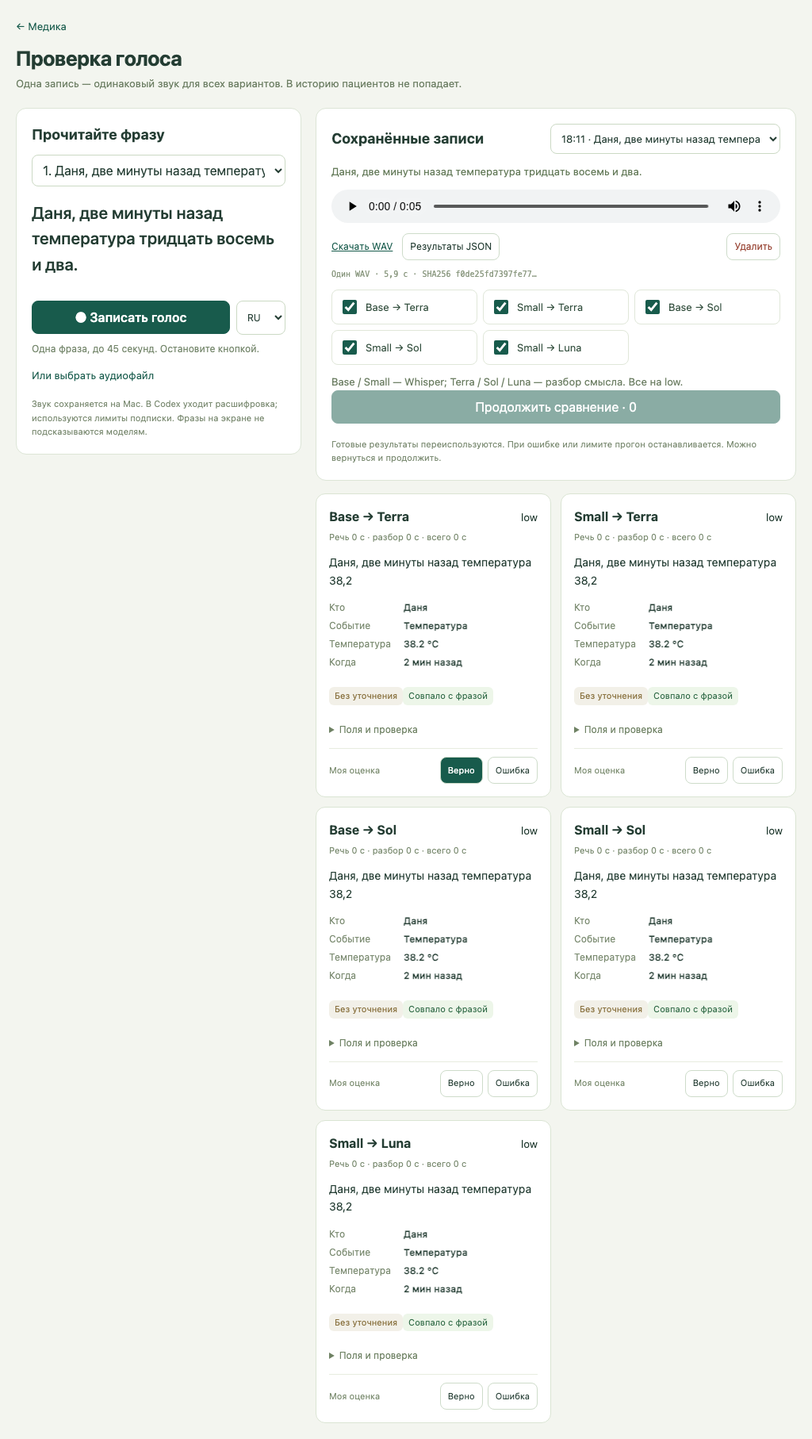
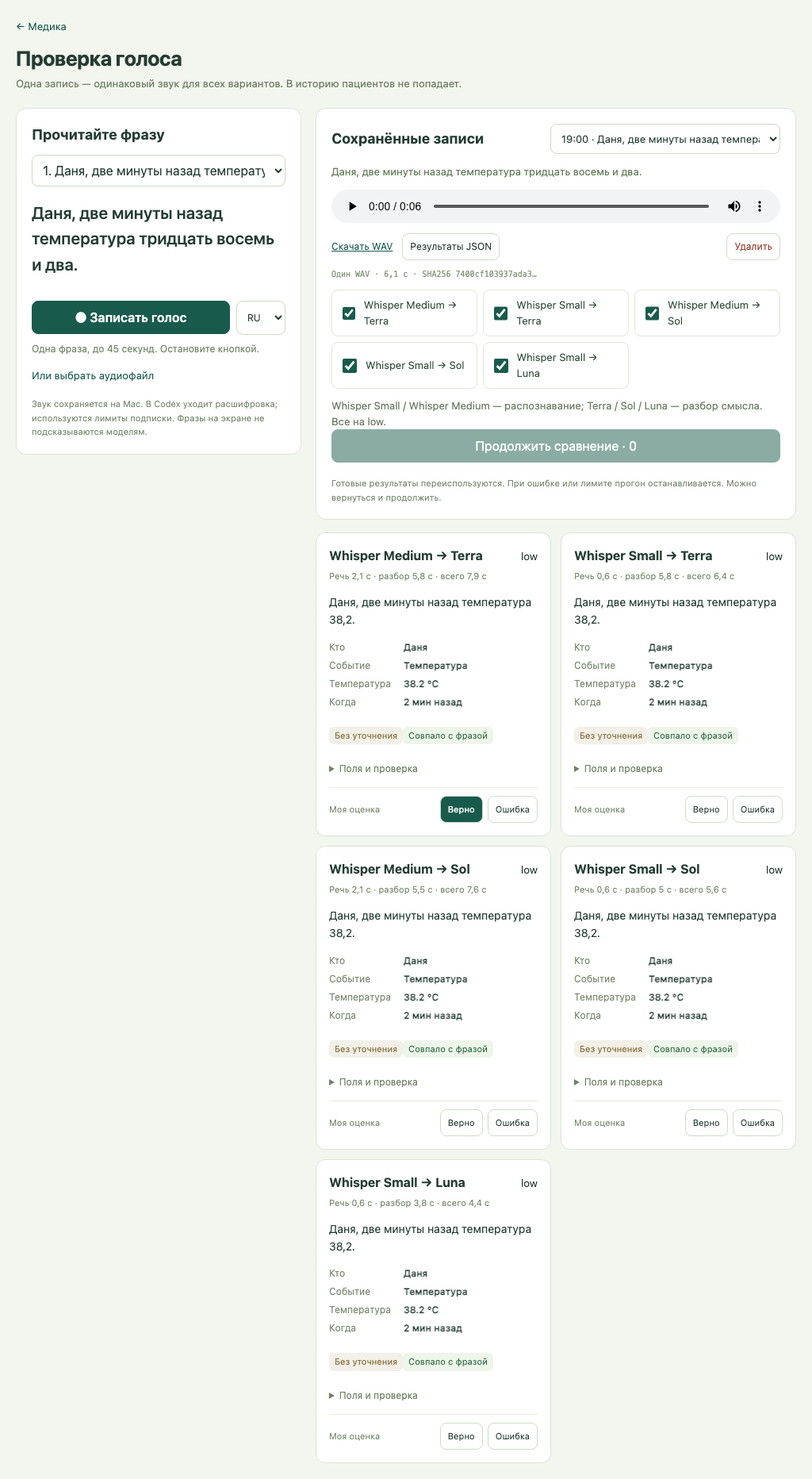
Remove Whisper Base and add verified Whisper Medium

diff --git a/site/public/voice-lab.js b/site/public/voice-lab.js
@@ -1,7 +1,7 @@
 import {captureVoice} from '/voice-capture.js';
 const $=(s,r=document)=>r.querySelector(s),root=$('#lab'),e=x=>String(x??'').replace(/[&<>"']/g,c=>({'&':'&amp;','<':'&lt;','>':'&gt;','"':'&quot;',"'":'&#39;'}[c]));
 let state,token='',recording=null,capturedAt='',phraseId=localStorage.getItem('voice-lab-phrase')||'temperature',recordId=localStorage.getItem('voice-lab-record')||'',busy='',stopRequested=false,language='ru',customPrompt='',timer;
-let selected;try{selected=new Set(JSON.parse(localStorage.getItem('voice-lab-variants'))||['base-terra','small-terra']);}catch{selected=new Set(['base-terra','small-terra']);}
+let selected;try{selected=new Set(JSON.parse(localStorage.getItem('voice-lab-variants'))||['small-terra','medium-terra']);}catch{selected=new Set(['small-terra','medium-terra']);}
 const kinds={temperature:'Температура',medication:'Лекарство',retching:'Позывы к рвоте',vomiting:'Рвота',diarrhea:'Диарея',inhalation:'Ингаляция',other:'Другое'},people={'lab-danya':'Даня','lab-alice':'Алиса','lab-mom':'Мама','lab-dad':'Папа'};
 const secs=ms=>(ms/1000).toLocaleString('ru-RU',{maximumFractionDigits:1})+' с';
 const current=()=>state.recordings.find(r=>r.id===recordId),disabled=()=>busy||recording?'disabled':'';
@@ -11,10 +11,10 @@ async function api(path,body,method=body?'POST':'GET',retried=false){
   const r=await fetch('/api/voice-lab'+path,{method,headers:{'X-Medika-Token':token,...(body?{'Content-Type':'application/json'}:{})},body:body?JSON.stringify(body):undefined});
   if(r.status===403&&!retried){token='';return api(path,body,method,true);}const value=await r.json();if(!r.ok)throw Error(value.error||'Не удалось выполнить запрос');return value;
 }
-async function refresh(){state=await api('');if(!current())recordId=state.recordings[0]?.id||'';render();}
+async function refresh(){state=await api('');selected=new Set([...selected].map(id=>id==='base-terra'?'medium-terra':id==='base-sol'?'medium-sol':id).filter(id=>state.variants.some(v=>v.id===id)));if(!selected.size)selected=new Set(['small-terra','medium-terra']);localStorage.setItem('voice-lab-variants',JSON.stringify([...selected]));if(!current())recordId=state.recordings[0]?.id||'';render();}
 function render(){
   const record=current(),phrase=state.phrases.find(p=>p.id===phraseId),remaining=[...selected].filter(id=>state.variants.some(v=>v.id===id&&v.ready)&&record?.results[id]?.status!=='complete');
-  root.innerHTML=`<section class="panel recorder"><h2>Прочитайте фразу</h2><select id="phrase" aria-label="Фраза для записи" ${disabled()}>${state.phrases.map((p,i)=>`<option value="${p.id}" ${p.id===phraseId?'selected':''}>${i+1}. ${e(p.text.slice(0,55))}</option>`).join('')}<option value="custom" ${phraseId==='custom'?'selected':''}>Своя фраза</option></select>${phraseId==='custom'?`<label for="custom">Что планируете сказать · необязательно</label><textarea id="custom" rows="3" ${disabled()}>${e(customPrompt)}</textarea>`:`<blockquote>${e(phrase?.text)}</blockquote>`}<div class="record-actions"><button class="${recording?'recording':'primary'}" data-act="mic" ${busy?'disabled':''}>${recording?'■ Сохранить запись':'● Записать голос'}</button><select id="language" aria-label="Язык" ${disabled()}><option value="ru" ${language==='ru'?'selected':''}>RU</option><option value="en" ${language==='en'?'selected':''}>EN</option></select></div><div class="record-status" role="status">${e(busy|| (recording?'Запись идёт…':'Одна фраза, до 45 секунд. Остановите кнопкой.'))}</div><label class="file-label">Или выбрать аудиофайл<input id="audio-file" type="file" accept=".wav,.m4a,.mp4,.aif,.aiff" ${disabled()}></label>${!window.isSecureContext?`<div class="secure-help"><p>Для микрофона откройте <a href="https://${e(location.hostname)}/voice-lab">HTTPS-страницу</a>.</p><details><summary>Настройка iPhone / iPad</summary><p><a href="/medika-ca.cer">Скачать сертификат</a> → установить профиль в настройках → Основные → Об этом устройстве → Доверие сертификатам → Medika Local Root.</p></details></div>`:''}<p class="privacy">Звук сохраняется на Mac. В Codex уходит расшифровка; используются лимиты подписки. Фразы на экране не подсказываются моделям.</p></section><div class="workspace"><section class="panel"><div class="saved-title"><h2>Сохранённые записи</h2><select id="saved" aria-label="Сохранённая запись" ${disabled()}><option value="">Выберите запись</option>${state.recordings.map(r=>`<option value="${r.id}" ${r.id===recordId?'selected':''}>${e(new Date(r.createdAt).toLocaleTimeString('ru-RU',{hour:'2-digit',minute:'2-digit'}))} · ${e(r.prompt?.slice(0,55)||'Своя фраза')}</option>`).join('')}</select></div>${record?`<p class="record-prompt">${e(record.prompt||'Своя фраза')}</p><audio controls preload="metadata" src="/api/voice-lab/recordings/${record.id}/audio"></audio><div class="record-tools"><a href="/api/voice-lab/recordings/${record.id}/audio" download="voice-${record.id}.wav">Скачать WAV</a><button data-act="export" ${disabled()}>Результаты JSON</button><button class="delete" data-act="delete" ${disabled()}>Удалить</button></div><p class="hash">Один WAV · ${secs(record.duration*1000)} · SHA256 ${e(record.audioSha256.slice(0,16))}…</p>`:'<p class="empty">Запишите фразу — она появится здесь.</p>'}<div class="variant-options">${state.variants.map(v=>`<label><input type="checkbox" data-variant="${v.id}" ${selected.has(v.id)?'checked':''} ${!v.ready||disabled()?'disabled':''}>${e(v.label)}${v.ready?'':' · недоступен'}</label>`).join('')}</div><p class="muted">Whisper Base / Whisper Small — распознавание; Terra / Sol / Luna — разбор смысла. Все на low.</p><div class="compare-actions"><button class="primary" data-act="compare" ${disabled()||!record||!remaining.length?'disabled':''}>${record&&[...selected].some(id=>record.results[id])?'Продолжить сравнение':'Сравнить выбранные'} · ${remaining.length}</button>${busy.startsWith('Сравнение')?'<button data-act="stop">Стоп</button>':''}</div><p class="privacy">Готовые результаты переиспользуются. При ошибке или лимите прогон останавливается. Можно вернуться и продолжить.</p></section><section class="results" aria-label="Сравнение вариантов">${record?state.variants.filter(v=>record.results[v.id]).map(v=>resultCard(v,record.results[v.id],record)).join('')||'<p class="empty">Выберите варианты и нажмите «Сравнить».</p>':''}</section></div>`;
+  root.innerHTML=`<section class="panel recorder"><h2>Прочитайте фразу</h2><select id="phrase" aria-label="Фраза для записи" ${disabled()}>${state.phrases.map((p,i)=>`<option value="${p.id}" ${p.id===phraseId?'selected':''}>${i+1}. ${e(p.text.slice(0,55))}</option>`).join('')}<option value="custom" ${phraseId==='custom'?'selected':''}>Своя фраза</option></select>${phraseId==='custom'?`<label for="custom">Что планируете сказать · необязательно</label><textarea id="custom" rows="3" ${disabled()}>${e(customPrompt)}</textarea>`:`<blockquote>${e(phrase?.text)}</blockquote>`}<div class="record-actions"><button class="${recording?'recording':'primary'}" data-act="mic" ${busy?'disabled':''}>${recording?'■ Сохранить запись':'● Записать голос'}</button><select id="language" aria-label="Язык" ${disabled()}><option value="ru" ${language==='ru'?'selected':''}>RU</option><option value="en" ${language==='en'?'selected':''}>EN</option></select></div><div class="record-status" role="status">${e(busy|| (recording?'Запись идёт…':'Одна фраза, до 45 секунд. Остановите кнопкой.'))}</div><label class="file-label">Или выбрать аудиофайл<input id="audio-file" type="file" accept=".wav,.m4a,.mp4,.aif,.aiff" ${disabled()}></label>${!window.isSecureContext?`<div class="secure-help"><p>Для микрофона откройте <a href="https://${e(location.hostname)}/voice-lab">HTTPS-страницу</a>.</p><details><summary>Настройка iPhone / iPad</summary><p><a href="/medika-ca.cer">Скачать сертификат</a> → установить профиль в настройках → Основные → Об этом устройстве → Доверие сертификатам → Medika Local Root.</p></details></div>`:''}<p class="privacy">Звук сохраняется на Mac. В Codex уходит расшифровка; используются лимиты подписки. Фразы на экране не подсказываются моделям.</p></section><div class="workspace"><section class="panel"><div class="saved-title"><h2>Сохранённые записи</h2><select id="saved" aria-label="Сохранённая запись" ${disabled()}><option value="">Выберите запись</option>${state.recordings.map(r=>`<option value="${r.id}" ${r.id===recordId?'selected':''}>${e(new Date(r.createdAt).toLocaleTimeString('ru-RU',{hour:'2-digit',minute:'2-digit'}))} · ${e(r.prompt?.slice(0,55)||'Своя фраза')}</option>`).join('')}</select></div>${record?`<p class="record-prompt">${e(record.prompt||'Своя фраза')}</p><audio controls preload="metadata" src="/api/voice-lab/recordings/${record.id}/audio"></audio><div class="record-tools"><a href="/api/voice-lab/recordings/${record.id}/audio" download="voice-${record.id}.wav">Скачать WAV</a><button data-act="export" ${disabled()}>Результаты JSON</button><button class="delete" data-act="delete" ${disabled()}>Удалить</button></div><p class="hash">Один WAV · ${secs(record.duration*1000)} · SHA256 ${e(record.audioSha256.slice(0,16))}…</p>`:'<p class="empty">Запишите фразу — она появится здесь.</p>'}<div class="variant-options">${state.variants.map(v=>`<label><input type="checkbox" data-variant="${v.id}" ${selected.has(v.id)?'checked':''} ${!v.ready||disabled()?'disabled':''}>${e(v.label)}${v.ready?'':' · недоступен'}</label>`).join('')}</div><p class="muted">Whisper Small / Whisper Medium — распознавание; Terra / Sol / Luna — разбор смысла. Все на low.</p><div class="compare-actions"><button class="primary" data-act="compare" ${disabled()||!record||!remaining.length?'disabled':''}>${record&&[...selected].some(id=>record.results[id])?'Продолжить сравнение':'Сравнить выбранные'} · ${remaining.length}</button>${busy.startsWith('Сравнение')?'<button data-act="stop">Стоп</button>':''}</div><p class="privacy">Готовые результаты переиспользуются. При ошибке или лимите прогон останавливается. Можно вернуться и продолжить.</p></section><section class="results" aria-label="Сравнение вариантов">${record?state.variants.filter(v=>record.results[v.id]).map(v=>resultCard(v,record.results[v.id],record)).join('')||'<p class="empty">Выберите варианты и нажмите «Сравнить».</p>':''}</section></div>`;
   $('#phrase').onchange=event=>{phraseId=event.target.value;localStorage.setItem('voice-lab-phrase',phraseId);render();};
   if($('#custom'))$('#custom').oninput=event=>customPrompt=event.target.value;
   $('#language').onchange=event=>language=event.target.value;

diff --git a/reports/test-report.md b/reports/test-report.md
@@ -1,6 +1,6 @@
 # Проверка пациента и событий — 8 ноября 2026
 
-- 25 unit/API-тестов — PASS: дозы/концентрации, календарные границы и DST, прежние API, свободная фраза ru/en, отрицания/диапазоны, личные связи с Rx, неизменность контекста прошлых фактов, HTTPS Origin, WAV-кодирование, копии v1–v4.
+- 26 unit/API-тестов — PASS: дозы/концентрации, календарные границы и DST, прежние API, свободная фраза ru/en, отрицания/диапазоны, личные связи с Rx, неизменность контекста прошлых фактов, HTTPS Origin, WAV-кодирование, копии v1–v4.
 - `site/scripts/canary.mjs` — PASS, 10 групп: пациент и история; свободный ввод без записи до подтверждения; доза/время/Rx/источник; неизвестное прошлое время; AudioWorklet → WAV → настоящий локальный Whisper → пациент и относительное время из фразы → факт без формы; контекст предписания; синтетическое фото → Apple Vision → предложение; отмена; перезапуск/полное восстановление без дублей.
 - Финальный canary загружал реальные опубликованные ресурсы с https://macbook-air-5.local. Все API были перехвачены в отдельную временную базу. Использованы только синтетическое фото и синтезированная речь; microphone Chromium подменён WAV. Физический iPad не проверен.
 - В одном приложении проверены ширины 320/390/768/1024/1470, отсутствие горизонтальной прокрутки, шапка до 60 px и ввод до 150 px. Визуально проверены синтетические снимки 390 и 768. Результат: `canary-result.json`, `patient-*.png`, `patient-ocr.json`.
@@ -13,12 +13,18 @@
 
 Общий голосовой ввод: проверен новый `/api/record-entry`: имя независимо от открытого пациента, точные две минуты назад, таблетка/свечка (штуки отдельно от мг), позывы отдельно от рвоты, отсутствие записи при неоднозначности, повтор запроса без дубля, отмена, перезапуск и восстановление v4. Канарейка говорит «Даня, две минуты назад температура тридцать девять» при открытой Алисе: одно нажатие микрофона, автоотправка по паузе, настоящий Whisper, запись в Дане, ни формы подтверждения, ни клавиатуры, затем отмена одним нажатием. Скриншоты и база только синтетические. Физический iPad и шумная комната не проверены; при шуме запись можно завершить кнопкой «Отправить» (есть предел 45 секунд).
 
-Открытие ссылки из другого приложения: 25 unit/API-тестов PASS. Новый regression-test сначала воспроизводил 403 на GET / с Sec-Fetch-Site: cross-site; затем подтвердил 200 для оболочки, отсутствие клинических данных в HTML, запрет cross-site API/session/state/backup/image и POST даже с верным токеном. Опубликованный HTTPS и публичный сертификат отвечают 200 на запрос внешней навигации; API остаётся 403. Реальная запись данных при проверке не выполнялась. Отдельный браузерный тест открывает приложение кликом с синтетического стороннего сайта; API изолирован во временную базу. Физический браузер iPhone/iPad пока не проверен.
+Открытие ссылки из другого приложения: 26 unit/API-тестов PASS. Новый regression-test сначала воспроизводил 403 на GET / с Sec-Fetch-Site: cross-site; затем подтвердил 200 для оболочки, отсутствие клинических данных в HTML, запрет cross-site API/session/state/backup/image и POST даже с верным токеном. Опубликованный HTTPS и публичный сертификат отвечают 200 на запрос внешней навигации; API остаётся 403. Реальная запись данных при проверке не выполнялась. Отдельный браузерный тест открывает приложение кликом с синтетического стороннего сайта; API изолирован во временную базу. Физический браузер iPhone/iPad пока не проверен.
 
-Terra вместо ручного разбора: полный опубликованный HTTPS canary выполнен с `MEDIKA_TEST_AI=1` и настоящим GPT-6.1 Terra через Codex/ChatGPT, на временной базе. Проверены имя, препарат/доза/связь с Rx, неизвестное прошлое время, настоящий Whisper → Terra → запись без формы, контекст, OCR, отмена, перезапуск и восстановление. Отдельный первый запрос исправил распознанное `38-2` в 38.2, сохранив две минуты назад; занял примерно 5 секунд. Все входы — синтетические. Принудительный ChatGPT login, API-key env не передаётся дочернему процессу, инструментальные события запрещены валидатором. 25 unit/API-тестов не используют модель. Установленный CLI проверен `setup-codex.mjs`; полная чистая установка на другом Mac не проверена. Живой backend показывает gpt-6.1-terra/ChatGPT ready; прежние клинические разделы после перезапуска не изменились.
+Terra вместо ручного разбора: полный опубликованный HTTPS canary выполнен с `MEDIKA_TEST_AI=1` и настоящим GPT-6.1 Terra через Codex/ChatGPT, на временной базе. Проверены имя, препарат/доза/связь с Rx, неизвестное прошлое время, настоящий Whisper → Terra → запись без формы, контекст, OCR, отмена, перезапуск и восстановление. Отдельный первый запрос исправил распознанное `38-2` в 38.2, сохранив две минуты назад; занял примерно 5 секунд. Все входы — синтетические. Принудительный ChatGPT login, API-key env не передаётся дочернему процессу, инструментальные события запрещены валидатором. 26 unit/API-тестов не используют модель. Установленный CLI проверен `setup-codex.mjs`; полная чистая установка на другом Mac не проверена. Живой backend показывает gpt-6.1-terra/ChatGPT ready; прежние клинические разделы после перезапуска не изменились.
 
-Страница проверки голоса: 25 unit/API-тестов PASS. Новый API-тест проверяет один WAV и общий ASR-кэш, повтор загрузки без дубля, неверные язык/аудио/дату, приватность аудио (включая действительный токен без cookie), Range 206/416, чужой Origin, сохранение оценки/результатов, прерванный шаг после перезапуска, восстановление незаконченного варианта, удаление и полную неизменность клинических разделов/аудита.
+Страница проверки голоса: 26 unit/API-тестов PASS. Новый API-тест проверяет один WAV и общий ASR-кэш, повтор загрузки без дубля, неверные язык/аудио/дату, приватность аудио (включая действительный токен без cookie), Range 206/416, чужой Origin, сохранение оценки/результатов, прерванный шаг после перезапуска, восстановление незаконченного варианта, удаление и полную неизменность клинических разделов/аудита.
 
-Первичный сквозной canary записал синтетическую речь через AudioWorklet, сохранил и переслушал WAV, выполнил один вариант, сохранил оценку и пережил перезапуск. Только после этого прогнаны остальные четыре на том же файле. Настоящие Whisper base/small и Codex Terra/Sol/Luna low прошли пять вариантов. Отдельная инъекция 429 остановила очередь на первом запросе без повторов; это не ошибка реального провайдера. Опубликованный HTTPS UI проверен с API во временной базе, без записи в реальные данные. Все размеры/варианты проверены на одном приложении; скриншоты 390/1024 синтетические. Физический телефон не проверен.
+Первичный сквозной canary записал синтетическую речь через AudioWorklet, сохранил и переслушал WAV, выполнил один вариант, сохранил оценку и пережил перезапуск. Только после этого прогнаны остальные четыре на том же файле. В первоначальной исторической проверке Whisper Base / Whisper Small и Codex Terra/Sol/Luna low прошли пять вариантов; актуальная проверка после удаления Whisper Base описана ниже. Отдельная инъекция 429 остановила очередь на первом запросе без повторов; это не ошибка реального провайдера. Опубликованный HTTPS UI проверен с API во временной базе, без записи в реальные данные. Все размеры/варианты проверены на одном приложении; скриншоты 390/1024 синтетические. Физический телефон не проверен.
 
 Регрессия основной страницы с настоящими Whisper→Terra, OCR, отменой, копией и восстановлением — PASS. Старое утверждение об отсутствии папок voice-* скорректировано: voice-lab теперь намеренно постоянная папка; остальные временные voice-* по-прежнему удаляются.
+
+Удаление Whisper Base и установка Whisper Medium: 26 unit/API-тестов PASS. Проверены отказ voiceStatus для запрещённой модели, основной Whisper Small, только Whisper Small/Whisper Medium в рабочих вариантах, HTTP 400 для прежних base-terra/base-sol без вызова ASR. Установщик переписан на закреплённые Whisper Small/Whisper Medium, скачивание потоком с проверкой размера/SHA256 и без повторов. Whisper Medium: 1533763059 байт, sha256 6c14d5adee5f86394037b4e4e8b59f1673b6cee10e3cf0b11bbdbee79c156208. Mac: 32 GiB RAM, место более 100 GiB до установки.
+
+Реальный smoke Whisper Medium на двух синтетических записях: температура 38,2 распознана за 2,1 с, фраза про свечку — за 1,5 с; название лекарства всё ещё искажено, поэтому улучшение общего качества не заявляется. Полный lab-canary на опубликованных ресурсах проверяет пять новых сочетаний Whisper Small/Whisper Medium с Terra/Sol/Luna low, миграцию старого выбора в localStorage, сохранение/перезапуск и отсутствие Whisper Base в UI. Старые клинические данные и реальные записи тестовой страницы сохраняются.
+
+Итоговая живая проверка: HTTPS / и /voice-lab отвечают 200 с доверенным локальным CA; backend использует Whisper Small, все пять сочетаний Whisper Small/Whisper Medium готовы. Полный основной canary с настоящими Whisper Small и Terra — PASS. Сравнение копии всех прежних клинических разделов/изображений/аудита и SHA256 файлов реальной тестовой записи подтвердило неизменность. Watch восстановлен, runtime.health.ok=true.

diff --git a/PROJECT.md b/PROJECT.md
@@ -26,19 +26,19 @@
 
 Отдельная страница **https://macbook-air-5.local/voice-lab** (также https://192.168.0.38/voice-lab). Доступна из «⋯ → Проверка голоса» и по внешней ссылке из чата. Для микрофона нужен тот же доверенный HTTPS-сертификат, что у основного приложения.
 
-Выбрать одну из шести фраз или «Своя фраза» → нажать «Записать голос» → прочитать → нажать «Сохранить запись». Паузы не обрывают запись; предел 45 секунд. Можно загрузить WAV/M4A/AIFF. Сохранённый WAV доступен для прослушивания и скачивания. Выбрать варианты и нажать «Сравнить выбранные». По умолчанию — base→Terra и small→Terra; дополнительно доступны base→Sol, small→Sol и small→Luna, все low. Прямое аудио Sol не включено, поскольку предыдущие пробы не дали полезного разбора.
+Выбрать одну из шести фраз или «Своя фраза» → нажать «Записать голос» → прочитать → нажать «Сохранить запись». Паузы не обрывают запись; предел 45 секунд. Можно загрузить WAV/M4A/AIFF. Сохранённый WAV доступен для прослушивания и скачивания. Выбрать варианты и нажать «Сравнить выбранные». По умолчанию — Whisper Small → Terra и Whisper Medium → Terra; дополнительно доступны Whisper Small → Sol, Whisper Medium → Sol и Whisper Small → Luna, все модели смысла на low. Whisper Base исключён из рабочих вариантов и отклоняется API. Прямое аудио Sol не включено, поскольку предыдущие пробы не дали полезного разбора.
 
 Каждому варианту подаётся один и тот же сохранённый WAV; SHA256 виден на странице и в результате. Для одинакового Whisper расшифровка общая, для разных моделей смысла сравнивается её обработка. Показаны текст, человек, событие, значение/лекарство/доза/содержание, время и задержки. Сверка с выбранной фразой не передаётся моделям; пользователь может отдельно поставить «Верно»/«Ошибка». Для своей фразы автоматического эталона нет. Время «назад» всегда считается от момента записи.
 
 Записи, расшифровки, результаты и оценки сохраняются в **site/data/voice-lab/** отдельно от медицинской базы. В события пациентов и клиническую резервную копию не входят. Для собственного сохранения доступны WAV и JSON; удаление на странице удаляет запись и результаты. Не добавлять реальные голосовые записи в Git/отчёты/скриншоты. Аудио остаётся на Mac; в Codex отправляется расшифровка и тестовый словарь из четырёх имён, без медицинской истории.
 
-Прогон выполняется последовательно. Готовые результаты повторно не вычисляются; после обновления страницы/перезапуска можно продолжить оставшиеся. Ошибка, лимит или «Стоп» останавливают очередь; текущий запрос при «Стоп» завершается. Автоматических повторов или платного fallback нет. Основное приложение сохраняет прежнюю цепочку base→Terra. На этом Mac обе модели Whisper установлены; small закреплён размером/URL/SHA256 в reports/voice-comparison-model.json. При переносе без small соответствующие варианты явно недоступны.
+Прогон выполняется последовательно. Готовые результаты повторно не вычисляются; после обновления страницы/перезапуска можно продолжить оставшиеся. Ошибка, лимит или «Стоп» останавливают очередь; текущий запрос при «Стоп» завершается. Автоматических повторов или платного fallback нет. Основное приложение использует Whisper Small → Terra. На этом Mac установлены Whisper Small и Whisper Medium; размер/URL/SHA256 закреплены в site/voice-engine.json. Установщик поддерживает small, medium и all; Whisper Base не поддерживается и его старый файл весов удалён. При переносе недостающая модель явно недоступна. Старые результаты сравнений не переписываются: они остаются в сохранённых JSON, но не используются новыми вариантами. Старый выбор Whisper Base в браузере заменяется выбором Whisper Medium без переноса старых результатов под новым названием.
 
-Проверки страницы: **25 unit/API-тестов**, headless canary с настоящим микрофонным путём на синтетическом WAV, пятью реальными сочетаниями Whisper/Codex, перезапуском/возобновлением и остановкой очереди. Отдельно проверены опубликованные ресурсы с API во временной базе, ширины 320/390/768/1024/1470 и Range-прослушивание для Safari. Физический iPhone/iPad не проверен. Результаты: reports/voice-lab-model-canary.json, reports/voice-lab-canary.json, reports/voice-lab-live.json. Команда: `MEDIKA_TEST_AI=1 PLAYWRIGHT_MODULE=… node site/scripts/voice-lab-canary.mjs`; без флага модельные ответы подменяются для быстрых UI-проверок.
+Проверки страницы: **26 unit/API-тестов**, headless canary с настоящим микрофонным путём на синтетическом WAV, пятью реальными сочетаниями Whisper/Codex, перезапуском/возобновлением и остановкой очереди. Отдельно проверены опубликованные ресурсы с API во временной базе, ширины 320/390/768/1024/1470 и Range-прослушивание для Safari. Физический iPhone/iPad не проверен. Результаты: reports/voice-lab-model-canary.json, reports/voice-lab-canary.json, reports/voice-lab-live.json. Команда: `MEDIKA_TEST_AI=1 PLAYWRIGHT_MODULE=… node site/scripts/voice-lab-canary.mjs`; без флага модельные ответы подменяются для быстрых UI-проверок.
 
 ## Архитектура
 
-`site/`: Node.js 24+ со встроенной SQLite и браузерный JS без runtime npm-зависимостей. Изображения: локальный Apple Vision (Swift). Аудио → текст: локальный whisper.cpp, multilingual base, Metal на Mac. Смысл текста → событие: `gpt-6.1-terra` через Codex CLI 0.167.0, вход ChatGPT и лимиты текущей подписки, без отдельного API-ключа. Terra не принимает аудио напрямую, поэтому первый этап остался отдельным. CLI установлен только в игнорируемый `site/tools/codex`, системный Codex не обновлялся. Только русский и английский, до 45 секунд, один запрос распознавания одновременно. Исходный код и SHA256 модели закреплены в `site/voice-engine.json`; восстановление движка — `node site/scripts/setup-voice.mjs` (нужны git, cmake и Xcode Command Line Tools). Модель и сборка исключены из Git. Аудио удаляется после обработки; распознанная фраза сохраняется с записанным событием.
+`site/`: Node.js 24+ со встроенной SQLite и браузерный JS без runtime npm-зависимостей. Изображения: локальный Apple Vision (Swift). Аудио → текст: локальный whisper.cpp с Whisper Small по умолчанию, Metal на Mac; Whisper Medium доступен для сравнения. Смысл текста → событие: `gpt-6.1-terra` через Codex CLI 0.167.0, вход ChatGPT и лимиты текущей подписки, без отдельного API-ключа. Terra не принимает аудио напрямую, поэтому первый этап остался отдельным. CLI установлен только в игнорируемый `site/tools/codex`, системный Codex не обновлялся. Только русский и английский, до 45 секунд, один запрос распознавания одновременно. Исходный код и SHA256 модели закреплены в `site/voice-engine.json`; восстановление движка — `node site/scripts/setup-voice.mjs small` или `node site/scripts/setup-voice.mjs all` (нужны git, cmake и Xcode Command Line Tools). Модель и сборка исключены из Git. Аудио удаляется после обработки; распознанная фраза сохраняется с записанным событием.
 
 Для переноса Terra-интеграции: `node site/scripts/setup-codex.mjs`; нужен существующий вход `codex login` через ChatGPT. Запросы идут последовательно в ephemeral-сессиях, с низким reasoning и JSON Schema, без пользовательских MCP-настроек, shell, apps и multi-agent. На лимите/ошибке нет автоматических повторов, платного API-fallback или записи факта. Сервер проверяет человека по исходной фразе, числа, единицы и время до сохранения. Повтор clientKey возвращает уже созданный факт без нового обращения к модели.
 
@@ -48,7 +48,7 @@
 
 Медицинские данные находятся только в игнорируемом `site/data/`: SQLite, изображения, закрытые резервные копии. Аудио и фотографии не отправляются внешним сервисам. По разрешению пользователя Terra получает в облаке текущую фразу, список имён/ID и названия действующих лекарств для сверки; полные назначения, фото, история, возраст/диагнозы и дозировки из базы не отправляются. Для AI-ввода нужны интернет и доступный лимит подписки. Новые факты, включая температуру, хранятся в `activities`; прежние `temperatures` и `events` отображаются в той же истории без изменения записей. Необязательные `carePhase`, `relatedRxId`, `sourceText` связывают факт с предписанием и исходной фразой. Связь не допускается с назначением другого человека.
 
-Копия v4 включает оригиналы, историю, связи и контекст; восстановление v1–v4 добавляет отсутствующие данные, конфликт версий отклоняется целиком. Перед обновлением создана закрытая копия `site/data/before-voice-lab.json`; после запуска проверено равенство всех прежних клинических разделов.
+Копия v4 включает оригиналы, историю, связи и контекст; восстановление v1–v4 добавляет отсутствующие данные, конфликт версий отклоняется целиком. Перед обновлением создана закрытая копия `site/data/before-whisper-medium.json`; после запуска проверено равенство всех прежних клинических разделов.
 
 Режим рассчитан на доверенные домашние устройства: отдельных аккаунтов нет. Интернет-доступ не настраивался. Mac должен быть включён; изоляция клиентов Wi-Fi может мешать доступу. При смене DHCP-адреса обновить IP в Caddy и `MEDIKA_LAN_HOSTS`. Справочная база по взаимодействиям ограничена и не объявляет схему безопасной; автоматического расчёта детских доз нет.
 

diff --git a/reports/approach-notes.md b/reports/approach-notes.md
@@ -18,8 +18,10 @@
 
 Пользователь указал на хрупкость цепочки «чистый ASR + ручные регулярные выражения» и выбрал уже оплаченную подписку Codex/Terra. Прекращено дальнейшее наращивание речевых regex: production-парсер заменён на структурированный ответ GPT-6.1 Terra с проверкой личности, количества и времени в обычном коде. Старый детерминированный разбор оставлен для unit-тестов и узкого определения явно названного пациента. Минимальный реальный запрос с синтетическим `38-2` прошёл, затем весь путь с Whisper, сохранением/отменой, копией и восстановлением — PASS. Terra по официальной спецификации принимает текст/изображения, поэтому качество первичного ASR не объявляется исправленным; аудио пока обрабатывает локальный Whisper. Системный CLI был 0.142.5, а Terra требует >=0.159: установлен изолированный 0.167.0, системный и глобальный config не менялись.
 
-Сравнение речи вместо предположений: на шести одинаковых синтетических WAV текущий base→Terra дал 1/6 полностью верных автоматических записей, small→Terra — 2/6. Остальные запросили уточнение; неверных автоматических фактов в наборе не было. Ошибки затронули десятичную точку, «Дане»/«да не» и названия лекарств. Прекращено продвижение простой замены размера/названия модели как готового решения; production не переключён. Проверка качества одной чистой успешной фразой признана недостаточной. Перед следующей сменой движка сравнивать одинаковые записи с числами, именами, названиями и шумом; эталон не давать модели. Минимальный проход до полного набора проверил вход→ASR→Terra→поля→сохранённый JSON, возобновление и итоговый отчёт. Прямое localAudio→Sol low на двух тех же файлах завершилось только null-полями, поэтому путь не внедрён. Изначальный сбой app-server был ошибкой quoting MCP-ключей тестового запуска; исправленные ключи проверены handshake перед аудио-запросами.
+Сравнение речи вместо предположений: на шести одинаковых синтетических WAV тогдашний Whisper Base → Terra дал 1/6 полностью верных автоматических записей, Whisper Small → Terra — 2/6. Остальные запросили уточнение; неверных автоматических фактов в наборе не было. Ошибки затронули десятичную точку, «Дане»/«да не» и названия лекарств. Прекращено продвижение простой замены размера/названия модели как готового решения; на том этапе production не переключён. Проверка качества одной чистой успешной фразой признана недостаточной. Перед следующей сменой движка сравнивать одинаковые записи с числами, именами, названиями и шумом; эталон не давать модели. Минимальный проход до полного набора проверил вход→ASR→Terra→поля→сохранённый JSON, возобновление и итоговый отчёт. Прямое localAudio→Sol low на двух тех же файлах завершилось только null-полями, поэтому путь не внедрён. Изначальный сбой app-server был ошибкой quoting MCP-ключей тестового запуска; исправленные ключи проверены handshake перед аудио-запросами.
 
 Тестовая страница голоса: по просьбе пользователя сохранение аудио выделено в отдельный voice-lab, без записи в медицинский журнал. Обработка аудио разделена на проверку/нормализацию и распознавание, чтобы сохранялся один WAV для всех вариантов; прежний ввод по-прежнему удаляет временные файлы. Первый regression-canary ошибочно счёл постоянную папку voice-lab утечкой временного voice-*. Установлена причина по имени папки, исключена только известная постоянная папка, остальные временные директории остаются под проверкой. Повтор полного основного canary прошёл.
 
 Калибровка страницы проверялась сначала на одном сохранённом синтетическом файле с модельным результатом/оценкой, перезапуском и возобновлением, затем на пяти вариантах. Никаких настоящих записей семьи в автотесты не подставлялось. При инъекции лимита очередь прекратилась на первом запросе. Эталонные фразы не поступают в ASR или prompt модели смысла.
+
+По прямому требованию пользователя Whisper Base удалён из оперативных путей, а не только из названий: модели/default, варианты API/страницы, установщик и benchmark. Основной ввод переведён на Whisper Small. Следующая стандартная по размеру модель — Whisper Medium; первичный источник и blob metadata подтверждены, загрузка проверена префиксом/размером/SHA256. Потоковая загрузка не держит 1,53 GB целиком в памяти. На двух синтетических примерах модель запускается на этом Mac за приемлемое время, но ошибки названия препарата сохраняются; это основание добавить её в сравнение, не объявлять качество готовым. Старые результаты не мигрируют в результаты Medium, меняется только browser selection.

diff --git a/STATUS.md b/STATUS.md
@@ -2,7 +2,9 @@
 
 8 ноября 2026: запущен новый интерфейс «пациент и история».
 
-Добавлена отдельная [страница проверки голоса](https://macbook-air-5.local/voice-lab): шесть фраз или своя, запись/загрузка/прослушивание, сохранение одного WAV, выбор до пяти сочетаний Whisper base/small и Terra/Sol/Luna low, расшифровки/поля/время, ручная оценка и продолжение после перезапуска. Тесты не создают событий пациентов.
+Whisper Base исключён из основного ввода, API, вариантов сравнения и установщика. Основной движок — Whisper Small. Whisper Medium установлен, проверен на этом Mac и добавлен в сравнение.
+
+Добавлена отдельная [страница проверки голоса](https://macbook-air-5.local/voice-lab): шесть фраз или своя, запись/загрузка/прослушивание, сохранение одного WAV, выбор до пяти сочетаний Whisper Small / Whisper Medium и Terra/Sol/Luna low, расшифровки/поля/время, ручная оценка и продолжение после перезапуска. Тесты не создают событий пациентов.
 
 - Четыре пациента, личная компактная лента, общая кнопка «Событие голосом», без предварительного выбора человека и клавиатуры.
 - GPT-6.1 Terra через существующую подписку Codex/ChatGPT разбирает смысл фразы в структурированное событие; отдельный API-ключ не нужен. На лимите факт не сохраняется, платного fallback нет.
@@ -15,6 +17,6 @@
 - На iPad для микрофона один раз установить и доверить Medika Local Root: http://macbook-air-5.local/medika-ca.cer. Текстовый ввод работает по HTTP.
 - Предыдущая сложная версия: Git-ветка `archive/before-patient-first`, коммит `3a4e5a5`.
 
-Проверены 25 unit/API-тестов, сквозной ввод с настоящим локальным распознаванием синтетической речи, OCR, отмена, перезапуск, восстановление, ширины 320/390/768/1024/1470 и опубликованный HTTPS. Сценарии выполнялись в headless Chromium с временной базой, без реальных медицинских данных. Физический iPad и его микрофон не проверены. Голосовой диалог с уточнениями — фаза 2. Точность сложной свободной речи требует проверки перед сохранением.
+Проверены 26 unit/API-тестов, сквозной ввод с настоящим локальным распознаванием синтетической речи, OCR, отмена, перезапуск, восстановление, ширины 320/390/768/1024/1470 и опубликованный HTTPS. Сценарии выполнялись в headless Chromium с временной базой, без реальных медицинских данных. Физический iPad и его микрофон не проверены. Голосовой диалог с уточнениями — фаза 2. Точность сложной свободной речи требует проверки перед сохранением.
 
 Подробности запуска/данных: [PROJECT.md](PROJECT.md). Доказательства: [reports/test-report.md](reports/test-report.md).

diff --git a/AGENTS.md b/AGENTS.md
@@ -33,3 +33,5 @@
 
 - /voice-lab — отдельная разрешённая пользователем запись и долговременное хранение тестового голоса в site/data/voice-lab. Это исключение из удаления временного аудио основного ввода, но не разрешение включать реальный голос в Git/скриншоты/тестовые отчёты. Тестовая страница не обращается к клиническому store для создания/изменения фактов. Эталоны фраз не передавать моделям.
 - Все варианты лаба получают один сохранённый WAV с одинаковым SHA256; для одинакового Whisper переиспользовать расшифровку. Сохранять результаты каждого шага, оценки и время записи; при перезапуске не повторять готовые запросы. Любая ошибка/лимит останавливает очередь. Аудио и результаты защищены сессией/Origin; для Safari поддерживать Range. /voice-lab как публичная оболочка разрешает переход из чата, её API остаётся защищённым.
+
+- Whisper Base запрещён и технически удалён из рабочих моделей: основной ввод Whisper Small, дополнительный Whisper Medium. Не возвращать Whisper Base в установщик, API, варианты/дефолты тестовой страницы или исполняемые benchmark-скрипты. Исторические результаты и сохранённый JSON не удалять/не переименовывать в результаты новой модели. Миграция выбора браузера меняет только выбранный вариант, не результаты.
